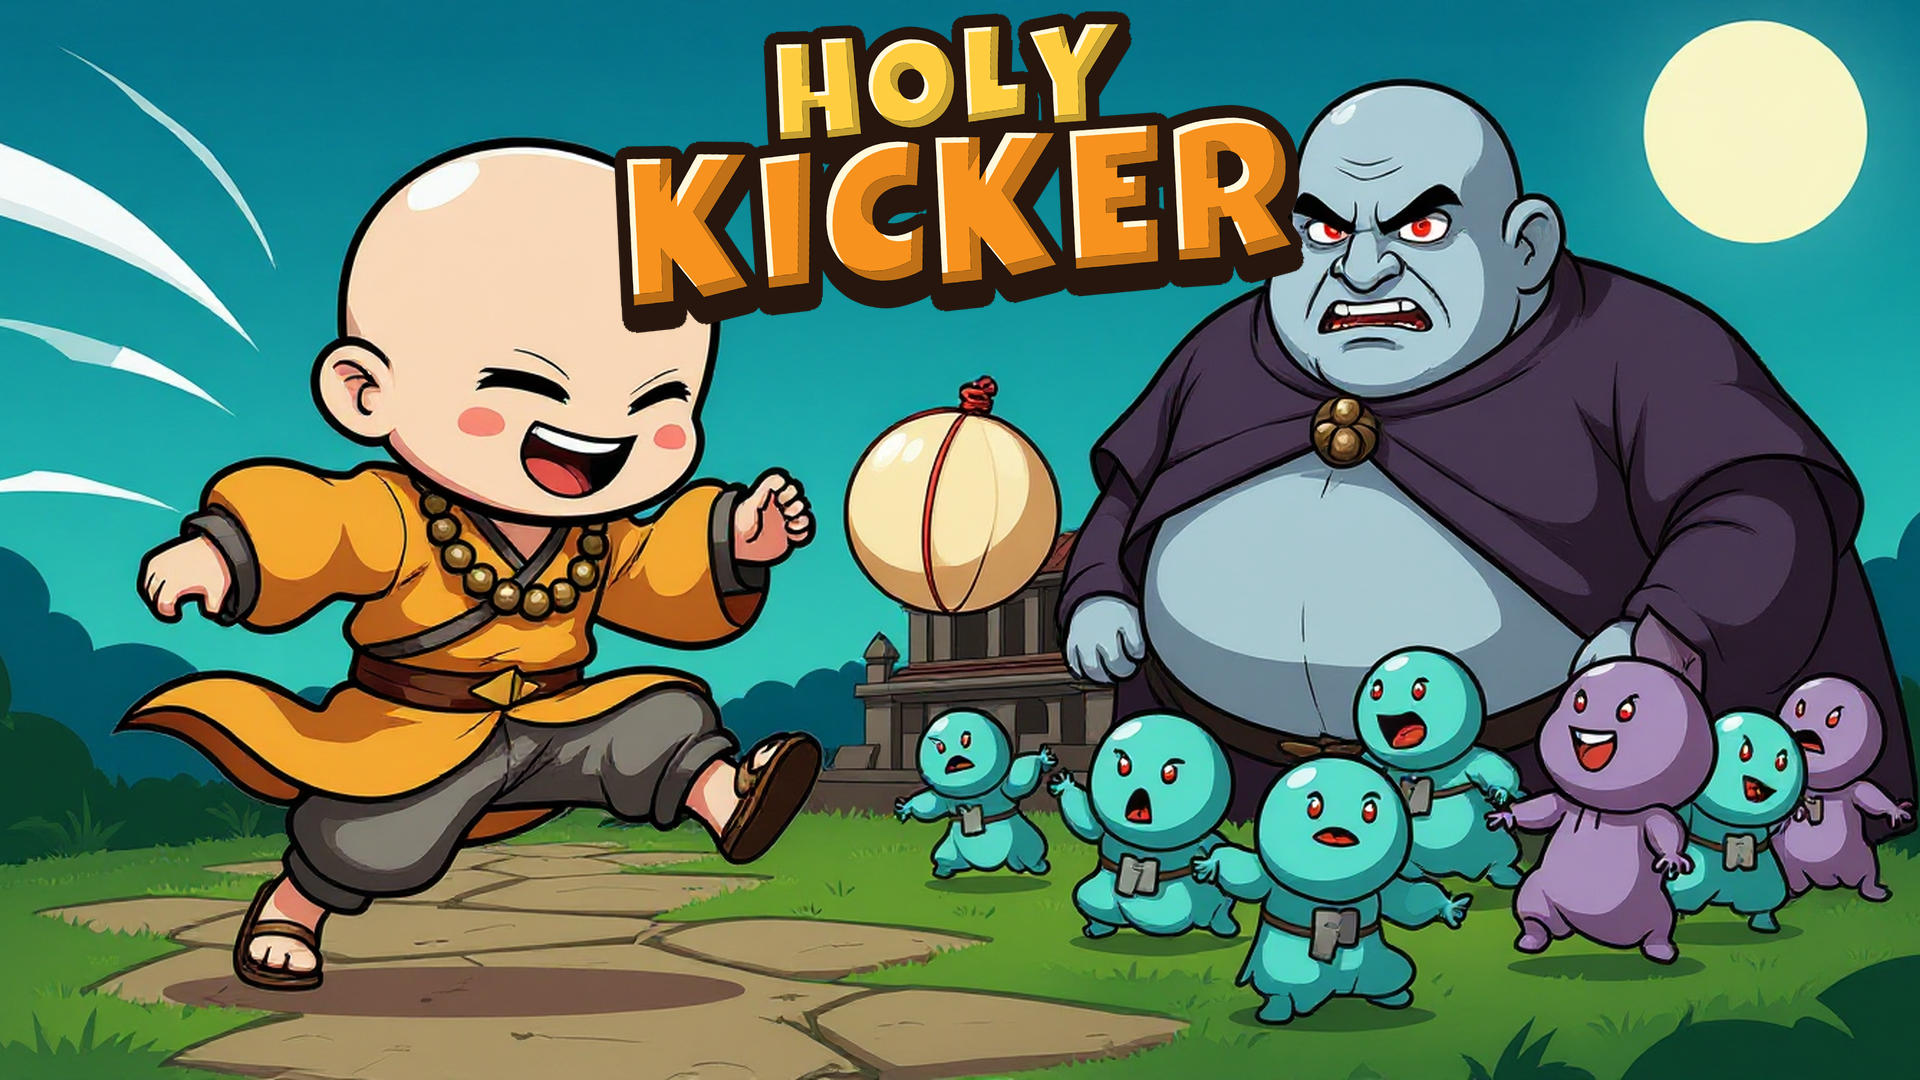
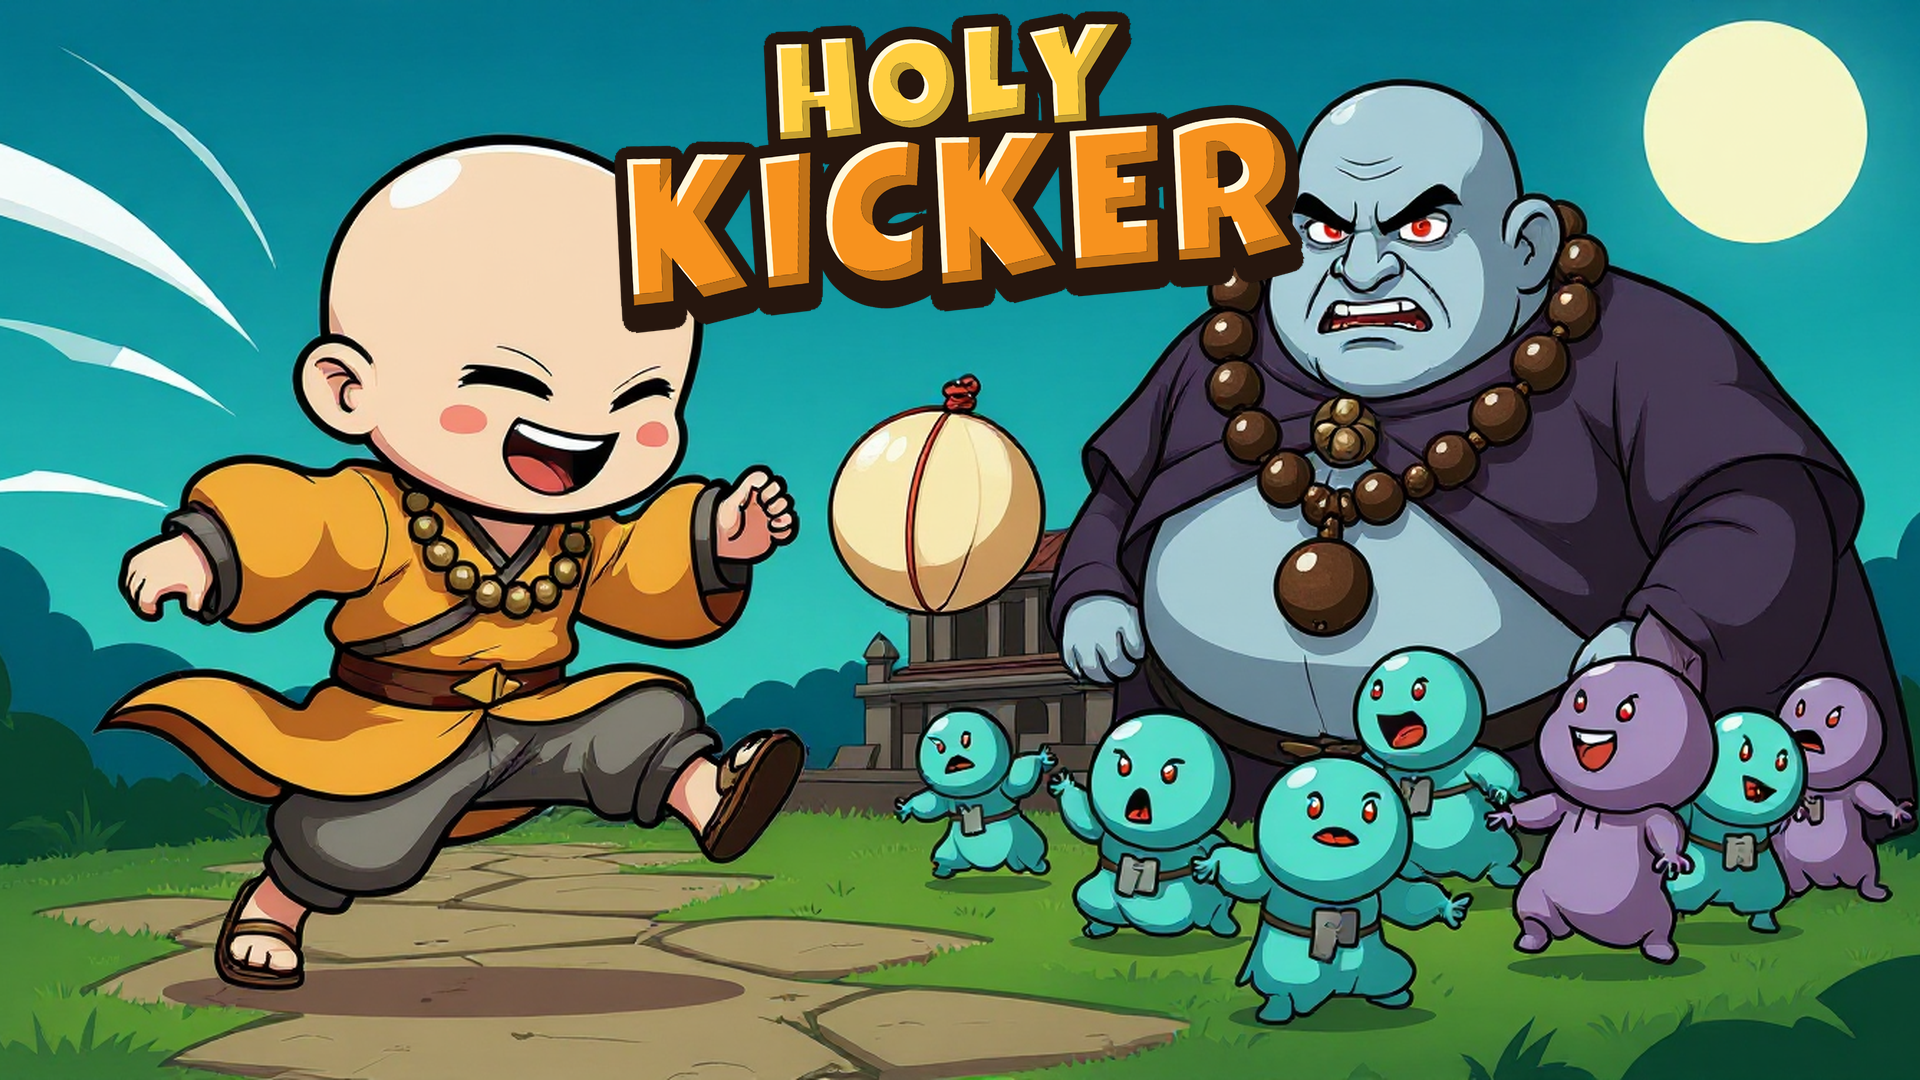
Landscape cover: prayer beads on the boss

diff --git a/art/monk/store/README.md b/art/monk/store/README.md
@@ -16,4 +16,5 @@ red cords, "not fire") and the ball is already on the canvas.
 
 The landscape boss first came out with a topknot and brown skin (`r1/cover_landscape_topknot.png`);
 `cover_landscape.png` is that cover edited with `cover_landscape_boss.txt` into a bald, grey-blue
-fallen monk.
+fallen monk (`r1/cover_landscape_nobeads.png`, which drew only a brooch), then with
+`cover_landscape_beads.txt` to hang a dark prayer bead necklace on him.
